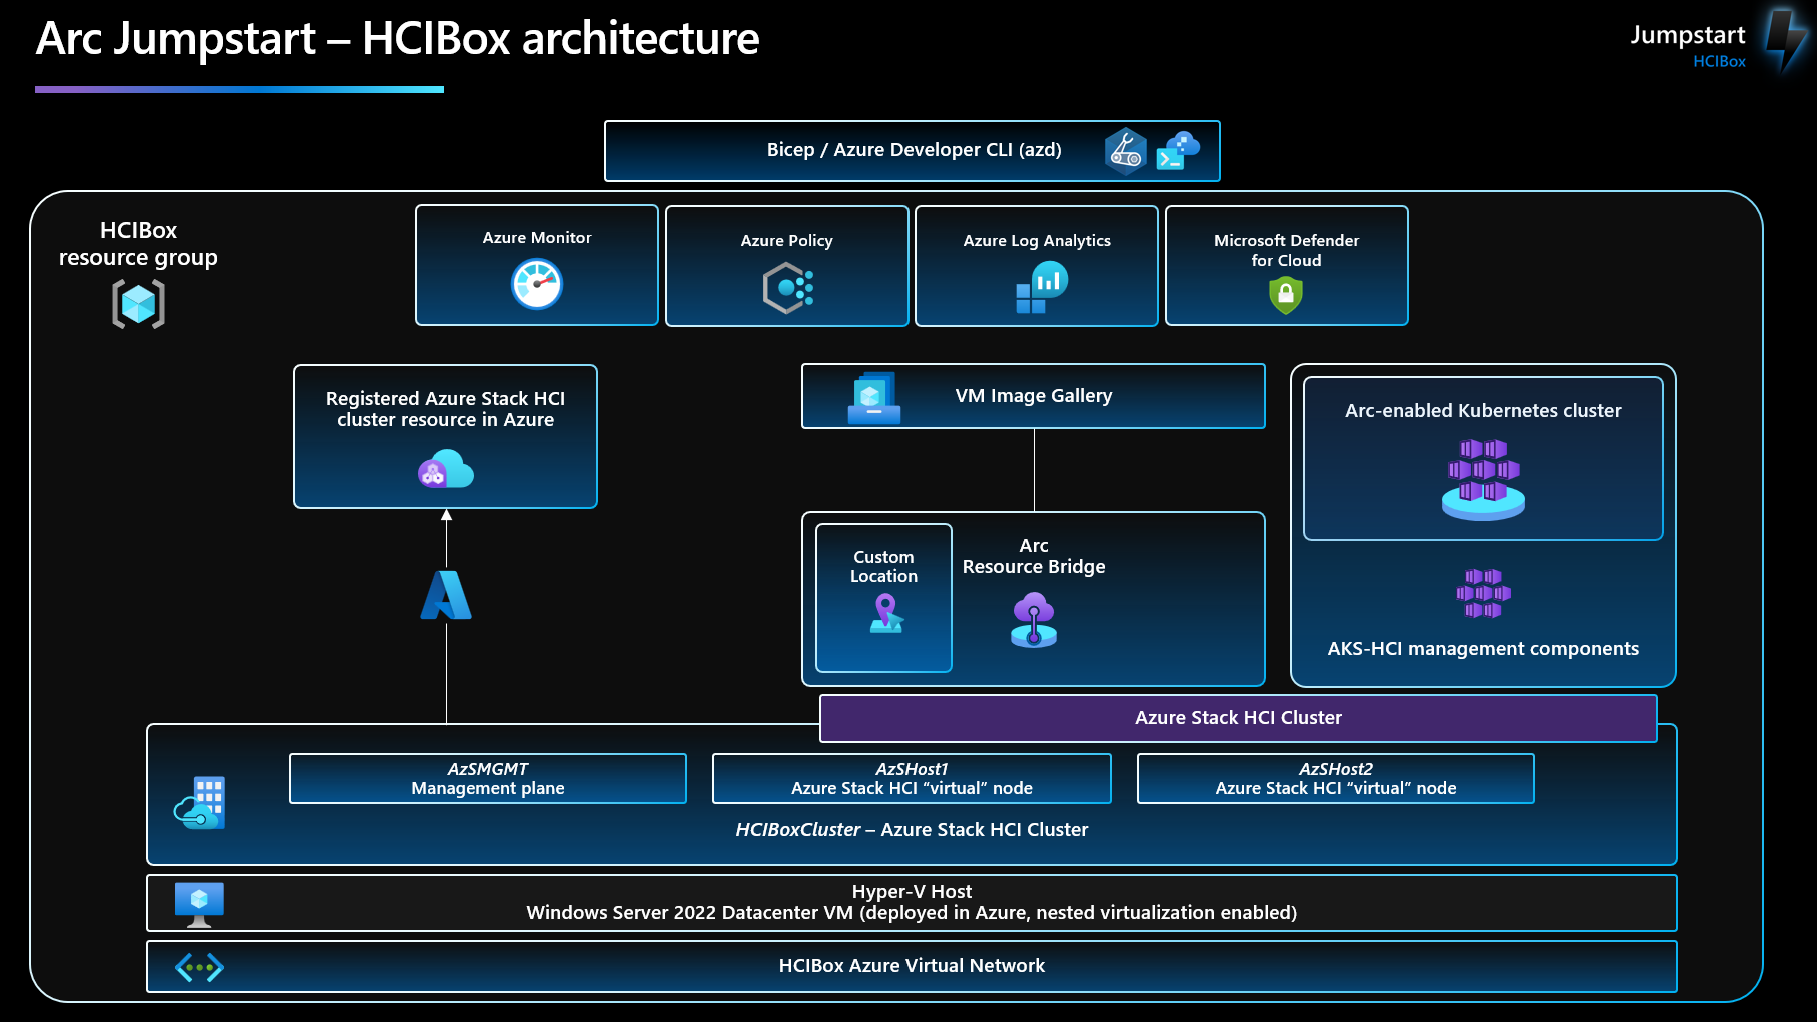
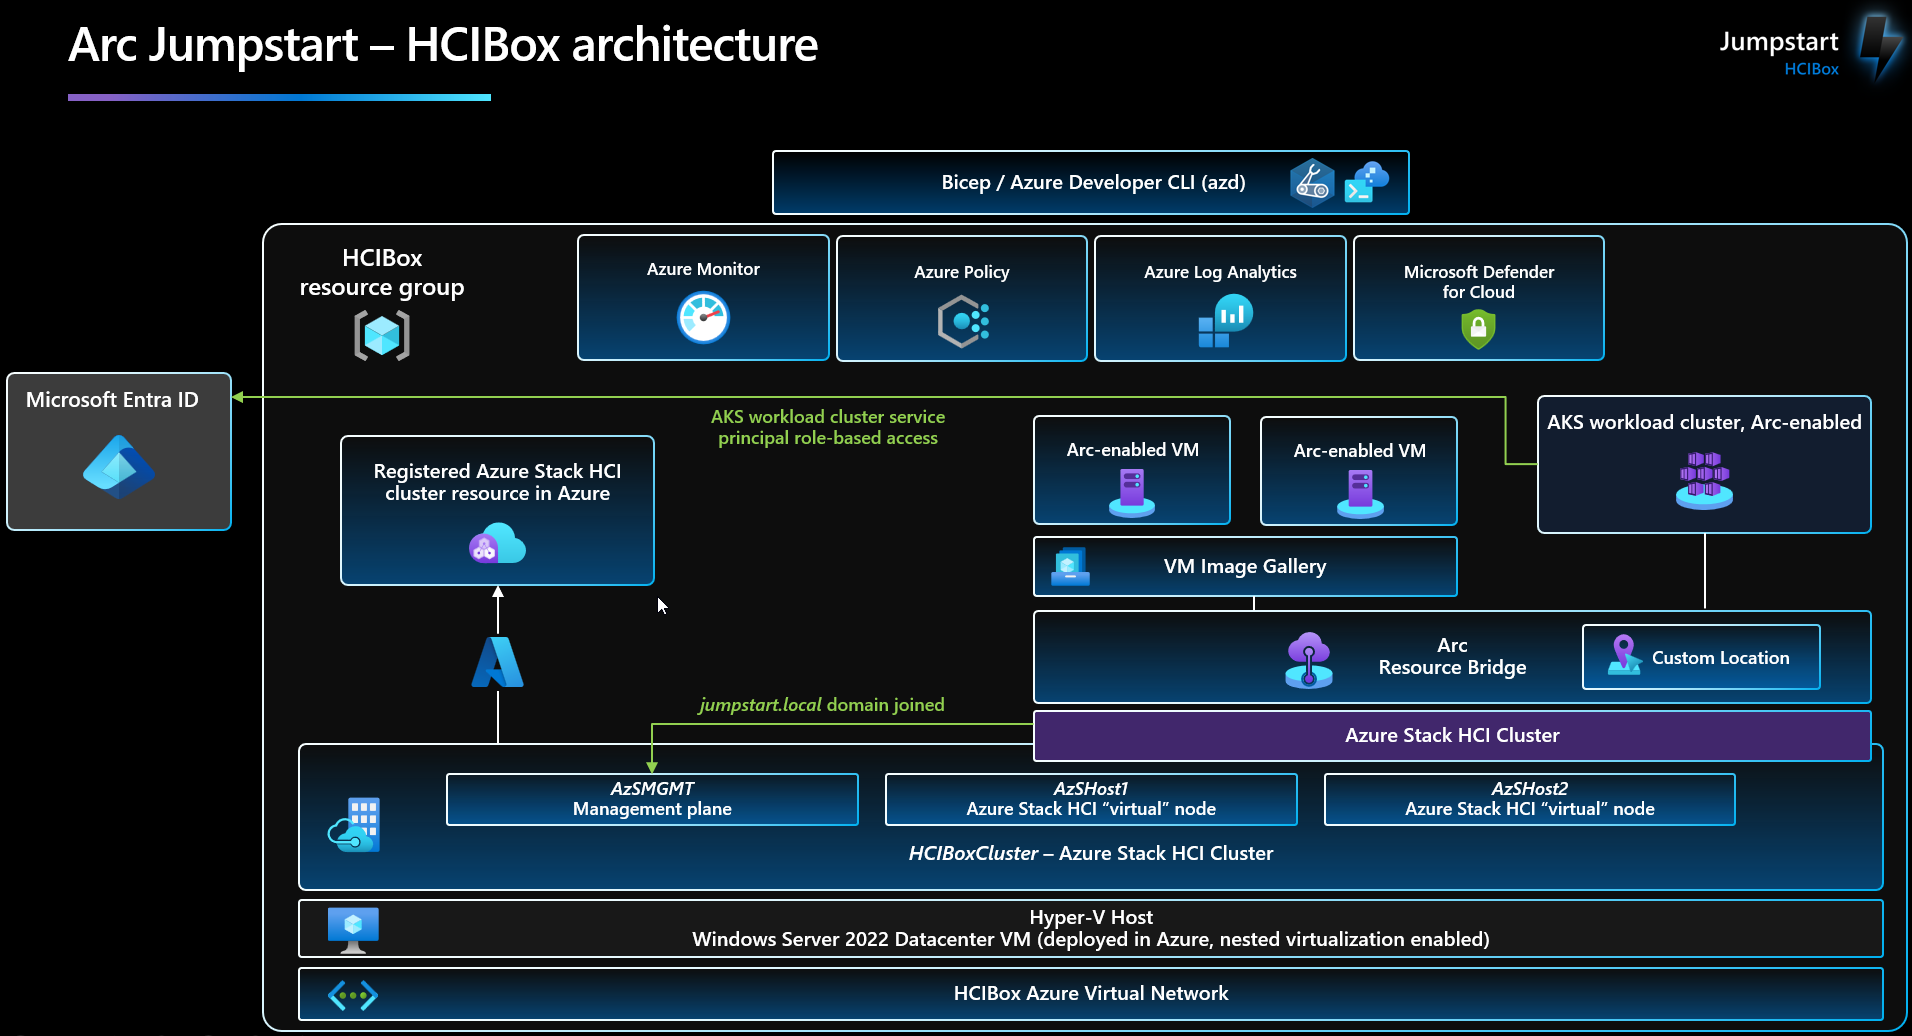
Feb release notes & fixes (#263)
* Updated module versions

- Updated module versions
- Added logic to leverage latest version of PowerShell 7

* HCIbox diagram updates

* Merge branch 'main' of https://github.com/dkirby-ms/arc_jumpstart_docs

* supported regions

* February release notes

* fix numbering bug

* add note about regions to az cli doc

* February release notes (#262)

* February release notes

* February release notes

---------

diff --git a/docs/release_notes/_index.md b/docs/release_notes/_index.md
@@ -9,6 +9,49 @@ weight: 6
 
 > **Note:** Release notes will be released around the first week of each month and will cover the previous month.
 
+## February 2024
+
+### Release highlights
+
+- HCIBox support for 2402 OS version
+- HCIBox Azure region support - Australia East, West Europe
+- Jumpstart Assets - Arc Architecture Posters and Diagrams (APD) [initial release](https://www.linkedin.com/posts/liorkamrat_arcjumpstart-mvpbuzz-msftadvocate-activity-7160667718273118212-iYrJ?utm_source=share&utm_medium=member_desktop)
+- Jumpstart Assets - Arc Architecture Posters and Diagrams (APD) [February release](https://www.linkedin.com/posts/liorkamrat_mvpbuzz-msftadvocate-azure-activity-7166081672575225857-AHV9?utm_source=share&utm_medium=member_desktop)
+
+### Jumpstart ArcBox
+
+- [Bug: Deployment fails if Service Principal can access multiple subscriptions #2393](https://github.com/microsoft/azure_arc/issues/2393)
+
+### Jumpstart HCIBox
+
+- [Bug: HCIBox: azd preprovisioning can error out due to older Az.Accounts module. #2394](https://github.com/microsoft/azure_arc/issues/2394)
+- [Bug: Answer files generated by New-HCIBoxCluster.ps1 should use base64 encoding #2396](https://github.com/microsoft/azure_arc/issues/2396)
+- [Bug: azd update changes when user is prompted for variables, thus requiring changes to the azd preprovision script #2427](https://github.com/microsoft/azure_arc/issues/2427)
+- [Bug: Azure HCIBox - After logon script runs on HCIBox-Client I don't see the hosts in ARC Machines #2434](https://github.com/microsoft/azure_arc/issues/2434)
+- [Enhancement: HCIBox should deploy with 2402 as the base #2435](https://github.com/microsoft/azure_arc/issues/2435)
+- [Feature: HCIBox -> upstream change introduces az aksarc -> update Configure-AKSWorkloadCluster.ps1 to use new method #2401](https://github.com/microsoft/azure_arc/issues/2401)
+- [Feature: Upgrade HCIBox to use 2311.2 as default OS image #2413](https://github.com/microsoft/azure_arc/issues/2413)
+- [Documentation: Typo in Documentation - AKS on Azure Stack HCI #2415](https://github.com/microsoft/azure_arc/issues/2415)
+- [Documentation: HCIBox diagram updates #258](https://github.com/Azure/arc_jumpstart_docs/pull/258)
+
+### Jumpstart Agora
+
+- [Bug: Agora Retail deployment fails due to unsupported AKS version #2433](https://github.com/microsoft/azure_arc/issues/2433)
+
+### Azure Arc-enabled servers
+
+- [Bug: Arc AWS Scaled Deployment out of date #2424](https://github.com/microsoft/azure_arc/issues/2424)
+- [Documentation: Update module versions in scenario "Automanage Machine Configuration custom configurations for Windows" #254](https://github.com/Azure/arc_jumpstart_docs/issues/254)
+
+### Arc, Edge, and IoT Operations
+
+- [Bug: AIO scenario - error in AIO initializtion #2392](https://github.com/microsoft/azure_arc/issues/2392)
+- [Bug: Arc-enabled Video Indexer: update extension parameters to support release builds #2402](https://github.com/microsoft/azure_arc/issues/2402)
+
+### Azure Arc-enabled data services
+
+- [Feature: Azure Arc-enabled data services - February release #2397](https://github.com/microsoft/azure_arc/issues/2397)
+
 ## Janurary 2024
 
 ### Release highlights

diff --git a/docs/azure_arc_jumpstart/azure_arc_servers/day2/arc_automanage/arc_automanage_machine_configuration_custom_windows/_index.md b/docs/azure_arc_jumpstart/azure_arc_servers/day2/arc_automanage/arc_automanage_machine_configuration_custom_windows/_index.md
@@ -41,13 +41,14 @@ You can [connect to the ArcBox machine as described in the documentation](/azure
 - Create C:\ArcBox\MachineConfiguration.ps1, then paste and run the following commands to install the required PowerShell modules for this scenario:
 
 ```powershell
-Install-Module -Name Az.Accounts -Force -RequiredVersion 2.13.1
-Install-Module -Name Az.PolicyInsights -Force -RequiredVersion 1.6.3
-Install-Module -Name Az.Resources -Force -RequiredVersion 6.11.2
+Install-Module -Name Az.Accounts -Force -RequiredVersion 2.15.1
+Install-Module -Name Az.PolicyInsights -Force -RequiredVersion 1.6.4
+Install-Module -Name Az.Resources -Force -RequiredVersion 6.15.1
 Install-Module -Name Az.Ssh -Force -RequiredVersion 0.1.1
-Install-Module -Name Az.Storage -Force -RequiredVersion 5.10.1
+Install-Module -Name Az.Storage -Force -RequiredVersion 6.1.1
+Install-Module -Name MSI -Force -RequiredVersion 3.3.4
 
-Install-Module -Name GuestConfiguration -Force -RequiredVersion 4.4.0
+Install-Module -Name GuestConfiguration -Force -RequiredVersion 4.5.0
 
 Install-Module PSDesiredStateConfiguration -Force -RequiredVersion 2.0.7
 Install-Module PSDscResources -Force -RequiredVersion 2.12.0.0
@@ -82,8 +83,8 @@ Authenticate to Azure
 Connect-AzAccount
 
 # Update the values to reflect your ArcBox deployment
-$ResourceGroupName = "arcbox-demo-rg"
-$Location = "northeurope"
+$ResourceGroupName = "<insert-rg-name>"
+$Location = "<insert-location-name>"
 ```
 
 Create storage account for storing DSC artifacts
@@ -101,7 +102,13 @@ New-AzStorageAccount -ResourceGroupName $ResourceGroupName -Name "arcboxmachinec
 The following steps needs to be executed from PowerShell 7 on the authoring machine for Windows.
 
 ```powershell
-Import-Module PSDesiredStateConfiguration -RequiredVersion 2.0.5
+Import-Module PSDesiredStateConfiguration -RequiredVersion 2.0.7
+
+$PS7Url = "https://github.com/PowerShell/PowerShell/releases/latest"
+$PS7LatestVersion = (Invoke-WebRequest -Uri $PS7url).Content | Select-String -Pattern "[0-9]+\.[0-9]+\.[0-9]+" | Select-Object -ExpandProperty Matches | Select-Object -ExpandProperty Value
+$PS7DownloadUrl = "https://github.com/PowerShell/PowerShell/releases/download/v$PS7LatestVersion/PowerShell-$PS7LatestVersion-win-x64.msi"
+Invoke-WebRequest -Uri $PS7DownloadUrl -OutFile $env:TEMP\ps7.msi
+$PS7ProductId = (Get-MSIProperty -Path $env:TEMP\ps7.msi -Property ProductCode).Value
 
 Configuration AzureArcJumpstart_Windows
 {
@@ -118,8 +125,8 @@ Configuration AzureArcJumpstart_Windows
     {
         MsiPackage PS7
         {
-            ProductId = '{323AD147-6FC4-40CB-A810-2AADF26D868A}'
-            Path = 'https://github.com/PowerShell/PowerShell/releases/download/v7.3.2/PowerShell-7.3.2-win-x64.msi'
+            ProductId = $PS7ProductId
+            Path = $PS7DownloadUrl
             Ensure = 'Present'
         }
         User ArcBoxUser

diff --git a/docs/azure_jumpstart_hcibox/deployment_az/_index.md b/docs/azure_jumpstart_hcibox/deployment_az/_index.md
@@ -118,7 +118,7 @@ Azure CLI can be used to deploy HCIBox into your Azure subscription. Azure CLI i
 
   ![Screenshot showing example parameters](./parameters_bicep.png)
 
-- Deploy the Bicep file. Navigate to the local cloned [deployment folder](https://github.com/microsoft/azure_arc/tree/main/azure_jumpstart_hcibox/bicep) and run the following command:
+- Create a new resource group and then deploy the Bicep file. Navigate to the local cloned [deployment folder](https://github.com/microsoft/azure_arc/tree/main/azure_jumpstart_hcibox/bicep) and run the following command:
 
   ```shell
   az group create --name "<resource-group-name>"  --location "<location>"
@@ -126,6 +126,8 @@ Azure CLI can be used to deploy HCIBox into your Azure subscription. Azure CLI i
   ```
 
   ![Screenshot showing bicep deploying](./bicep_deploying.png)
+
+    > **Note:** HCIBox can be deployed in East US, Australia East, and West Europe. Deploying in other regions will result in unexpected behavior or failures.
 
 ## Start post-deployment automation
 

diff --git a/docs/azure_jumpstart_hcibox/faq/_index.md b/docs/azure_jumpstart_hcibox/faq/_index.md
@@ -21,6 +21,8 @@ HCIBox deployment requires an Azure service principal with Owner role-based acce
 HCIBox has been tested in the following regions. Some HCIBox resources are deployed in specific regions where required services are available.
 
 - East US
+- Australia East
+- West Europe
 
 ## How much will it cost to use HCIBox?
 
